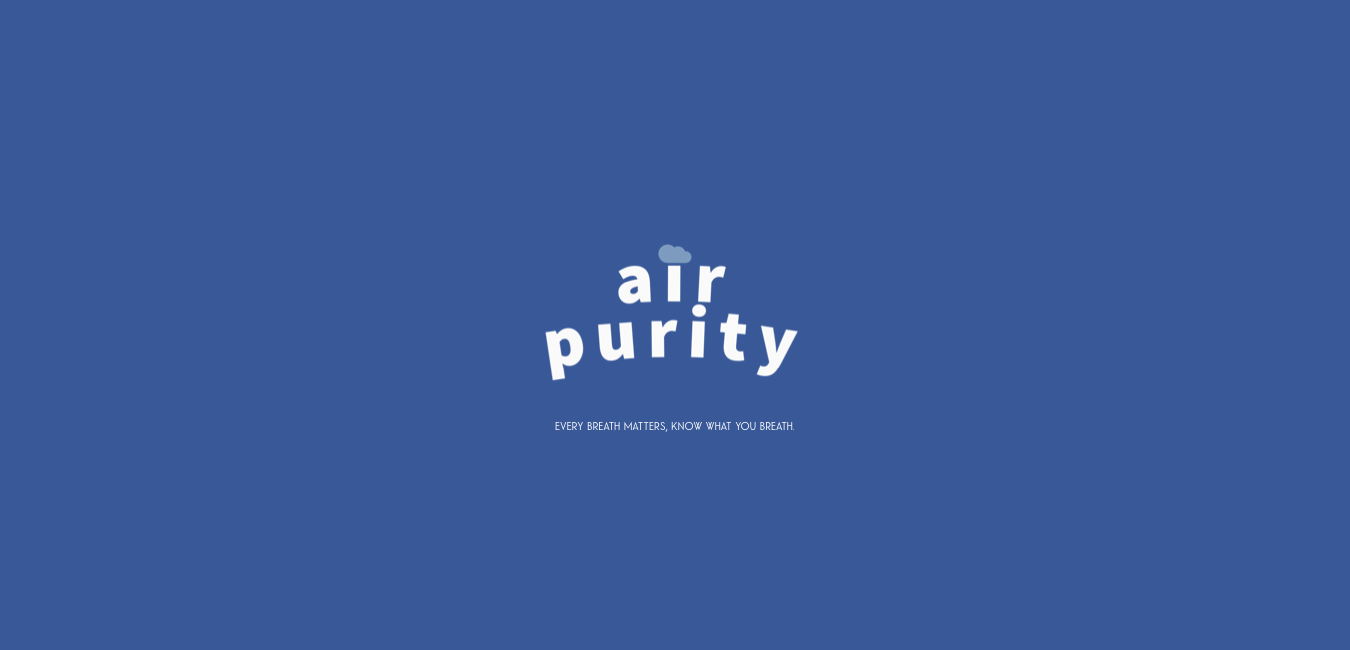
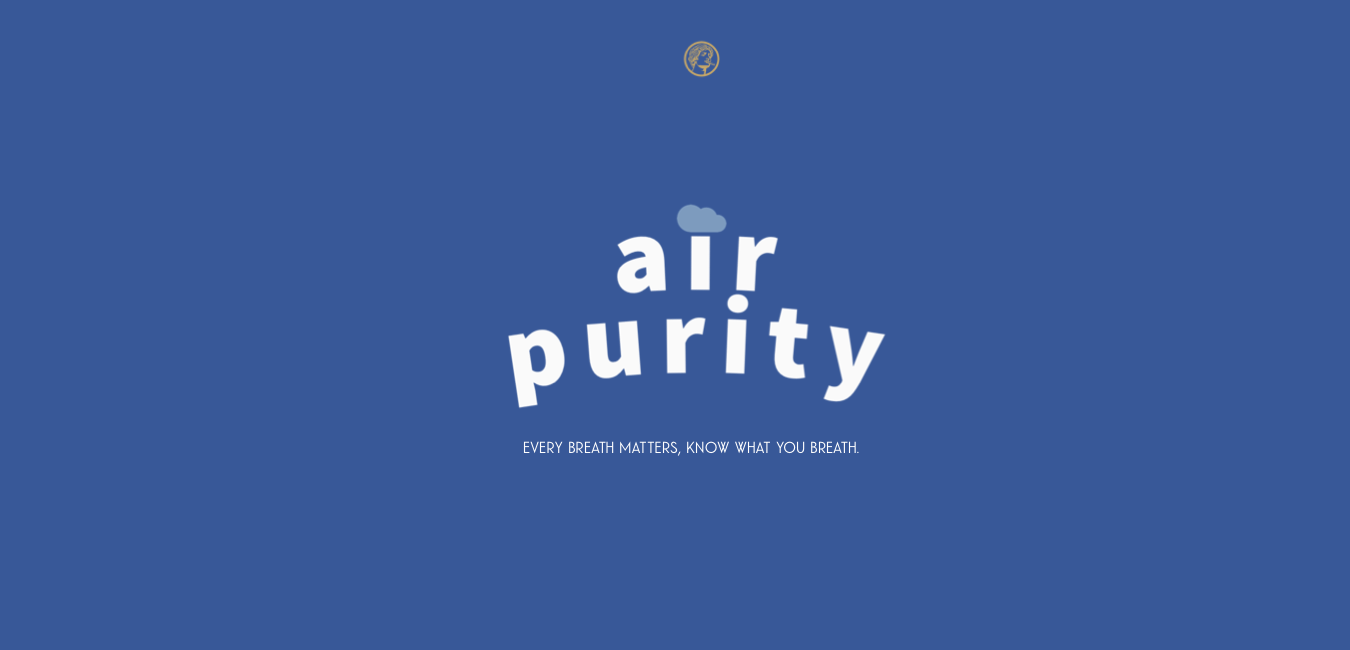
Update README

Changed region(s): [[0.3733, 0.3077, 0.6533, 0.6462], [0.3733, 0.6462, 0.6222, 0.7077], [0.4978, 0.0615, 0.5289, 0.1231]]

diff --git a/README.md b/README.md
@@ -1,7 +1,7 @@
 <a name="readme-top"></a>
 
 <div align="center">
-   <img src="./src/assets/rc-sd-logo.PNG" alt="Rudi Carrillo logo" width="120px" height="auto" />
+   <img src="./src/assets/rc-sd-logo.PNG" alt="Rudi Carrillo logo" width="33px" height="auto" />
   <br/>
 
    <img src="./src/assets/banner-apurity-readme.PNG" alt="Rudi Carrillo logo" />
